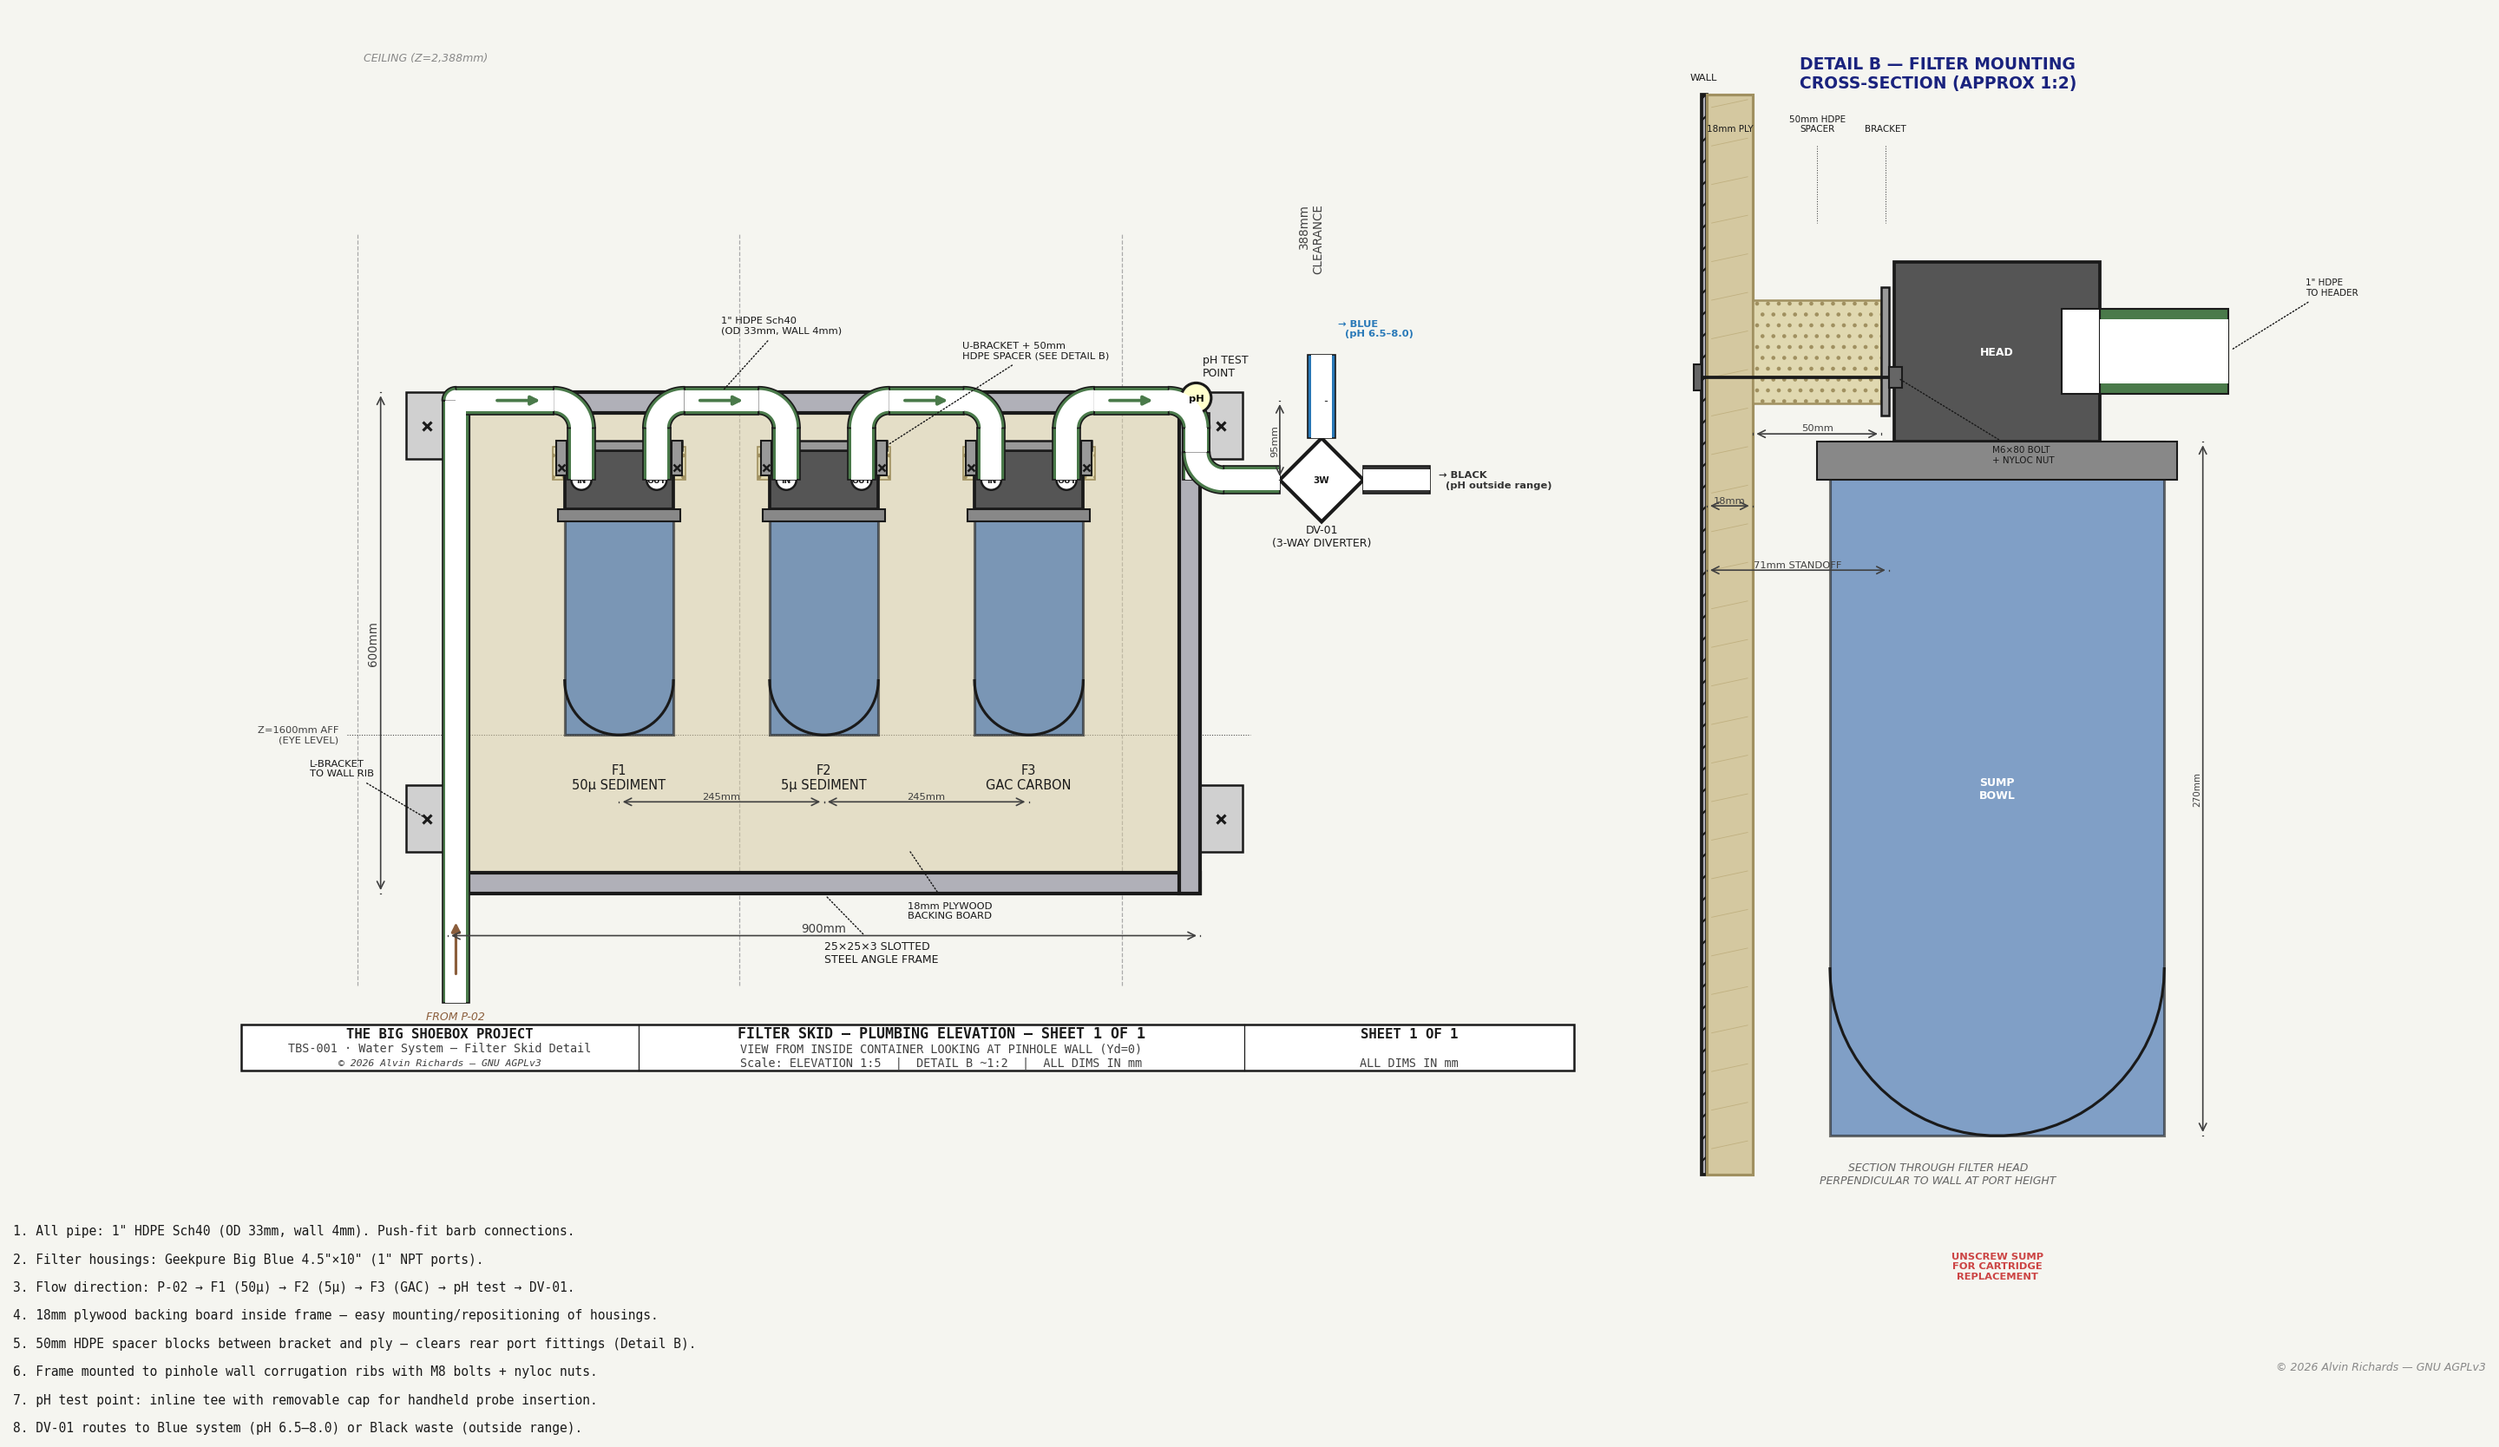
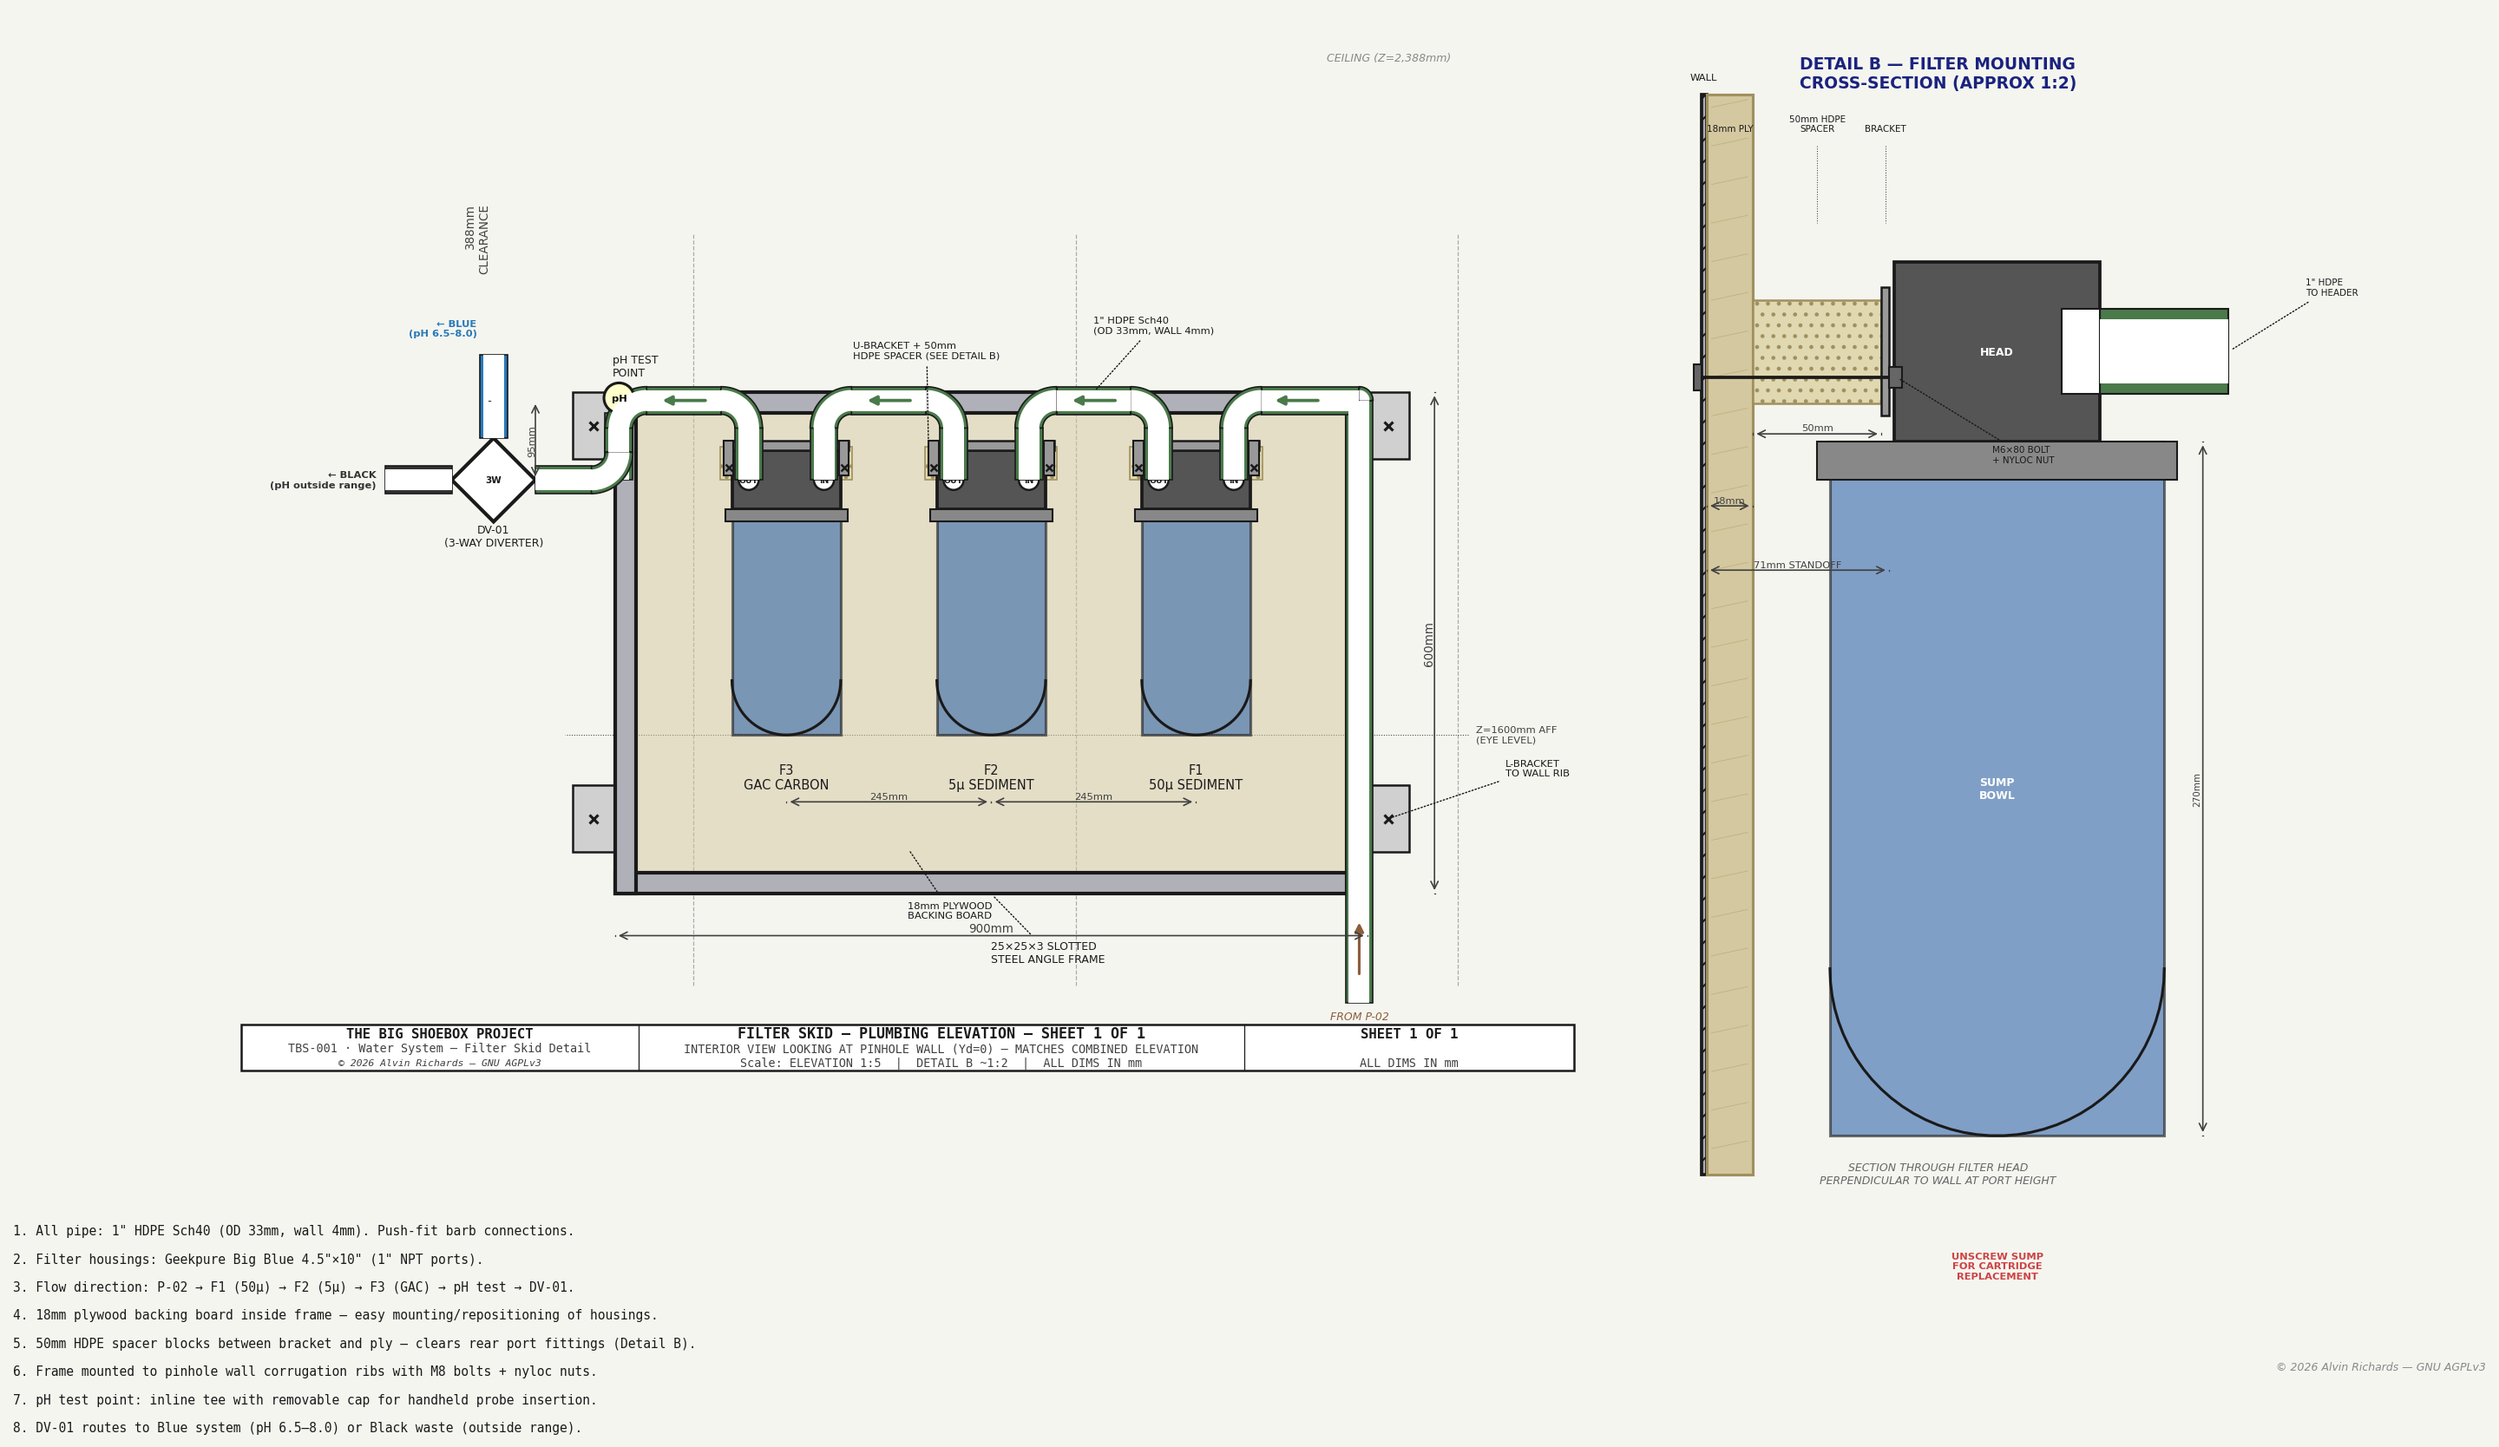
Mirror filter-skid-sheet1 to match pinhole wall elevation
Invert X axis on the main elevation panel so the filter skid
diagram uses the same interior viewing convention as the combined
pinhole wall elevation: high X (IBC end) on the left, low X
(cargo door) on the right. Fix directional labels and text
alignment for the mirrored view. Detail B cross-section unchanged.

diff --git a/generate_filter_skid_diagram.py b/generate_filter_skid_diagram.py
@@ -93,6 +93,10 @@ ax2.axis("off")
 ax.set_xlim(sx(2600) - 1, sx(4200) + 1)
 ax.set_ylim(sz(1200) - 1, sz(2300) + 2)
 
+# Mirror X axis for interior view: matches pinhole wall elevation convention
+# (high X / IBC end on LEFT, low X / cargo door end on RIGHT)
+ax.invert_xaxis()
+
 # Reset label registry for collision avoidance
 reset_label_registry()
 
@@ -106,7 +110,7 @@ for rib_x in range(2742, 3900, CORR_SPACING):  # ribs near our zone
 # Ceiling line
 ax.plot([sx(2650), sx(4150)], [sz(2388), sz(2388)],
         color="#888888", lw=1.0, ls="-", zorder=1)
-ax.text(sx(2750), sz(2388 + 15), "CEILING (Z=2,388mm)", ha="left", va="bottom",
+ax.text(sx(2750), sz(2388 + 15), "CEILING (Z=2,388mm)", ha="right", va="bottom",
         fontsize=6, color="#888888", style="italic")
 
 # ── Slotted angle frame ──────────────────────────────────────────────────────
@@ -513,16 +517,16 @@ draw_pipe_path(ax,
     [DV01_X, DV01_X],
     [DV01_Z + DV01_R, DV01_Z + DV01_R + 100],
     OD, WALL, fc=C_BLUE)
-ax.text(sx(DV01_X + 20), sz(DV01_Z + DV01_R + 120), "→ BLUE\n  (pH 6.5–8.0)",
-        ha="left", va="bottom", fontsize=5.5, color=C_BLUE, fontweight="bold")
+ax.text(sx(DV01_X + 20), sz(DV01_Z + DV01_R + 120), "← BLUE\n  (pH 6.5–8.0)",
+        ha="right", va="bottom", fontsize=5.5, color=C_BLUE, fontweight="bold")
 
 # Right output → Black system (waste)
 draw_pipe_path(ax,
     [DV01_X + DV01_R, DV01_X + DV01_R + 80],
     [DV01_Z, DV01_Z],
     OD, WALL, fc="#333333")
-ax.text(sx(DV01_X + DV01_R + 90), sz(DV01_Z), "→ BLACK\n  (pH outside range)",
-        ha="left", va="center", fontsize=5.5, color="#333333", fontweight="bold")
+ax.text(sx(DV01_X + DV01_R + 90), sz(DV01_Z), "← BLACK\n  (pH outside range)",
+        ha="right", va="center", fontsize=5.5, color="#333333", fontweight="bold")
 
 # ── Flow arrows on header ────────────────────────────────────────────────────
 arrow_style = dict(arrowstyle="-|>", color=C_HDPE, lw=1.8, mutation_scale=10)
@@ -574,7 +578,7 @@ ax.plot([sx(FSKID_X - 120), sx(FSKID_X + FSKID_W + 60)],
         color=C_DIM, lw=0.5, ls=":", zorder=2)
 ax.text(sx(FSKID_X - 130), sz(FILT_SUMP_Z),
         f"Z={FILT_SUMP_Z}mm AFF\n(EYE LEVEL)",
-        ha="right", va="center", fontsize=5.5, color=C_DIM)
+        ha="left", va="center", fontsize=5.5, color=C_DIM)
 
 # Ceiling clearance
 CEILING_Z = 2388
@@ -839,7 +843,7 @@ ax2.text(sb_y(90), sb_z(-315),
 # ── Title block ──────────────────────────────────────────────────────────────
 title_block(ax, "SHEET 1 OF 1",
             drawing_title="FILTER SKID — PLUMBING ELEVATION",
-            subtitle="VIEW FROM INSIDE CONTAINER LOOKING AT PINHOLE WALL (Yd=0)",
+            subtitle="INTERIOR VIEW LOOKING AT PINHOLE WALL (Yd=0) — MATCHES COMBINED ELEVATION",
             scale_note="ELEVATION 1:5  |  DETAIL B ~1:2  |  ALL DIMS IN mm",
             doc_id="TBS-001 · Water System — Filter Skid Detail",
             height=0.05)
